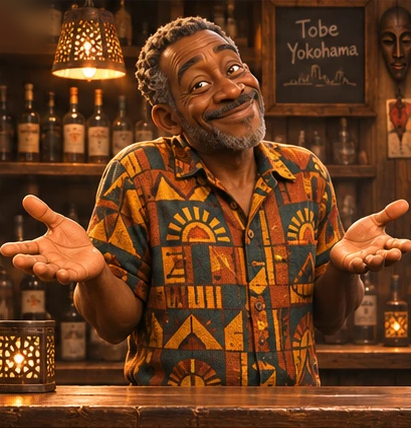
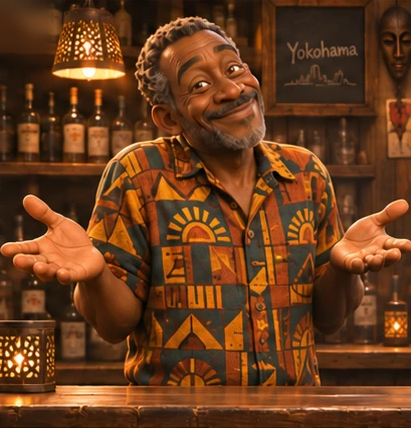
Replace master panel 10 (blackboard without Tobe)
Claude-Session: https://claude.ai/code/session_01CLMQz5XUX6w72CC5yZEo66

diff --git a/africa-night-mv2/make_panels.py b/africa-night-mv2/make_panels.py
@@ -18,18 +18,21 @@ SPEC = {
     "cat": [(x, 80, y, 467) for x, y in C_TOP] + [(x, 480, y, 911) for x, y in C_BOT],
     "master": [(x, 63, y, 485) for x, y in [(10, 333), (342, 664), (673, 994), (1004, 1325), (1334, 1661)]]
     + [(x, 495, y, 926) for x, y in [(9, 300), (309, 608), (616, 910), (918, 1240), (1248, 1662)]],
+    # replacement for master panel 10 only (blackboard without "Tobe")
+    "master_v2": [(1248, 495, 1662, 926)],
     "moon2": [(844, 479, 1659, 915)],
     "talk4": [(4, 4, 835, 468), (838, 4, 1669, 468), (4, 472, 835, 937), (838, 472, 1669, 937)],
     "bar": [(11, 63, 578, 916), (594, 63, 1136, 916), (1152, 63, 1662, 916)],
     "moon": [(11, 63, 579, 916), (595, 63, 1134, 916), (1150, 63, 1661, 916)],
 }
-PREFIX = {"moon2": "N", "talk4": "T", "master": "K", "hiroshie": "H", "cat": "C", "bar": "B", "moon": "M"}
-BADGE = {"moon2": 66, "talk4": 44, "master": 46, "hiroshie": 58, "cat": 46, "bar": 66, "moon": 66}
+PREFIX = {"master_v2": "K", "moon2": "N", "talk4": "T", "master": "K", "hiroshie": "H", "cat": "C", "bar": "B", "moon": "M"}
+BADGE = {"master_v2": 46, "moon2": 66, "talk4": 44, "master": 46, "hiroshie": 58, "cat": 46, "bar": 66, "moon": 66}
 
 os.makedirs(OUT, exist_ok=True)
+START = {"master_v2": 10}
 for sheet, boxes in SPEC.items():
     img = cv2.imread(os.path.join(SHEETS, sheet + ".webp"))
-    for i, (x0, y0, x1, y1) in enumerate(boxes, 1):
+    for i, (x0, y0, x1, y1) in enumerate(boxes, START.get(sheet, 1)):
         p = img[y0 + 2:y1 - 1, x0 + 2:x1 - 1].copy() if sheet != "talk4" else img[y0:y1, x0:x1].copy()
         b = BADGE[sheet]
         mask = np.zeros(p.shape[:2], np.uint8)
